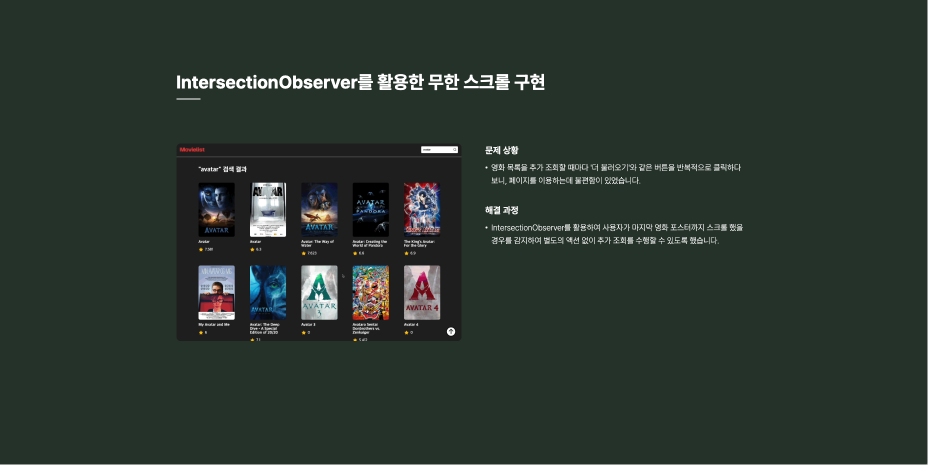
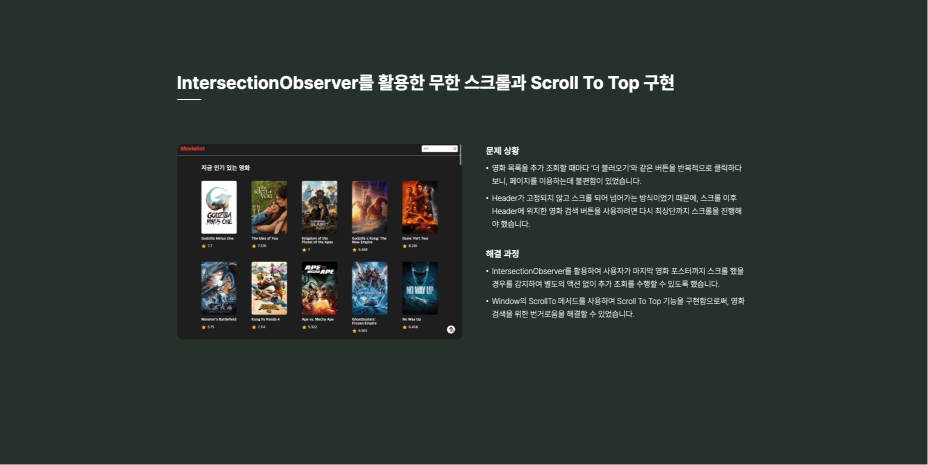
docs: 포트폴리오 관련 내용 추가 및 이미지 보완

Changed region(s): [[0.1875, 0.3011, 0.8125, 0.7226], [0.1875, 0.1505, 0.75, 0.2409]]

diff --git a/src/constants/details.tsx b/src/constants/details.tsx
@@ -55,6 +55,11 @@ import PNGNavMl8 from '../../public/assets/navigations/ml-8.png';
 import PNGNavPt1 from '../../public/assets/navigations/pt-1.png';
 import PNGNavPt2 from '../../public/assets/navigations/pt-2.png';
 import PNGNavPt3 from '../../public/assets/navigations/pt-3.png';
+import PNGNavPt4 from '../../public/assets/navigations/pt-4.png';
+import PNGNavPt5 from '../../public/assets/navigations/pt-5.png';
+import PNGNavPt6 from '../../public/assets/navigations/pt-6.png';
+import PNGNavPt7 from '../../public/assets/navigations/pt-7.png';
+import PNGNavPt8 from '../../public/assets/navigations/pt-8.png';
 
 import SVGFigmaLogo from '../../public/assets/icons/figma-logo.svg';
 import SVGGithubLogoWhite from '../../public/assets/icons/github-logo-white.svg';
@@ -91,6 +96,13 @@ import PNGMovieListScroll from '../../public/assets/projects/movie-list-scroll.g
 import PNGMovieListSkeleton from '../../public/assets/projects/movie-list-skeleton.png';
 
 import PNGPortfolioLanding from '../../public/assets/portfolio-landing.png';
+import GIFPortfolioVersion1 from '../../public/assets/projects/portfolio-version-1.gif';
+import GIFPortfolioVersion2 from '../../public/assets/projects/portfolio-version-2.gif';
+import GIFPortfolioHint1 from '../../public/assets/projects/portfolio-hint-1.gif';
+import GIFPortfolioHint2 from '../../public/assets/projects/portfolio-hint-2.gif';
+import GIFPortfolioHint3 from '../../public/assets/projects/portfolio-hint-3.gif';
+import GIFPortfolioNavigation from '../../public/assets/projects/portfolio-navigation.gif';
+import GIFPortfolioScrollRestore from '../../public/assets/projects/portfolio-scroll-restore.gif';
 
 export const DETAIL_LANDING = {
   'map-befine': PNGMapBeFine,
@@ -142,7 +154,16 @@ export const DETAIL_NAV = {
     PNGNavMl7,
     PNGNavMl8,
   ],
-  portfolio: [PNGNavPt1, PNGNavPt2, PNGNavPt3],
+  portfolio: [
+    PNGNavPt1,
+    PNGNavPt2,
+    PNGNavPt3,
+    PNGNavPt4,
+    PNGNavPt5,
+    PNGNavPt6,
+    PNGNavPt7,
+    PNGNavPt8,
+  ],
 };
 
 const DETAILS: Detail = {
@@ -781,19 +802,21 @@ const DETAILS: Detail = {
     {
       id: 5,
       template: 'activity',
-      heading: 'IntersectionObserver를 활용한 무한 스크롤 구현',
+      heading: 'IntersectionObserver를 활용한 무한 스크롤과 Scroll To Top 구현',
       image: PNGMovieListScroll,
       contents: [
         {
           heading: '문제 상황',
           descriptions: [
             "영화 목록을 추가 조회할 때마다 '더 불러오기'와 같은 버튼을 반복적으로 클릭하다 보니, 페이지를 이용하는데 불편함이 있었습니다.",
+            'Header가 고정되지 않고 스크롤 되어 넘어가는 방식이었기 때문에, 스크롤 이후 Header에 위치한 영화 검색 버튼을 사용하려면 다시 최상단까지 스크롤을 진행해야 했습니다.',
           ],
         },
         {
           heading: '해결 과정',
           descriptions: [
             'IntersectionObserver를 활용하여 사용자가 마지막 영화 포스터까지 스크롤 했을 경우를 감지하여 별도의 액션 없이 추가 조회를 수행할 수 있도록 했습니다.',
+            'Window의 ScrollTo 메서드를 사용하여 Scroll To Top 기능을 구현함으로써, 영화 검색을 위한 번거로움을 해결할 수 있었습니다.',
           ],
         },
       ],
@@ -822,19 +845,21 @@ const DETAILS: Detail = {
     {
       id: 7,
       template: 'activity',
-      heading: '반응형 웹 적용',
+      heading: '반응형 웹 적용 및 Bottom Sheet 동적 적용',
       image: PNGMovieListResponsive,
       contents: [
         {
           heading: '문제 상황',
           descriptions: [
             'PC 환경을 기준으로 미션을 구현했기에 모바일 및 태블릿 환경에서 웹 페이지를 확인하기에는 불편함이 있었습니다.',
+            '모바일 환경에서 Modal이 화면 중앙에 위치하게 될 경우 Modal을 조작하는게 불편했습니다.',
           ],
         },
         {
           heading: '해결 과정',
           descriptions: [
             'CSS Media Query를 활용하여 반응형 웹을 적용함으로써 PC, 태블릿, 모바일 각각의 환경에 적합한 사용성을 제공할 수 있도록 했습니다.',
+            'CSS Media Query를 활용하여 모바일 환경으로 인식되었을 때 Modal의 위치를 하단으로 고정하여 Bottom Sheet 형태로 전환될 수 있도록 했습니다.',
           ],
         },
       ],
@@ -853,7 +878,7 @@ const DETAILS: Detail = {
       id: 1,
       template: 'title',
       title: '포트폴리오',
-      description: 'Next.js를 활용하여 만든 포트폴리오 웹 페이지',
+      description: 'Next.js를 활용하여 만든 웹 포트폴리오',
       links: [
         {
           name: 'Github',
@@ -865,9 +890,9 @@ const DETAILS: Detail = {
     {
       id: 2,
       template: 'introduction',
-      heading: '프로젝트 소개',
+      heading: '포트폴리오 소개',
       intro:
-        'Next.js를 사용하여 SSG 방식으로 배포한 웹 포트폴리오입니다. Swiper JS를 활용하여 PPT 형식의 포트폴리오를 구현했습니다. 추후 상수로 관리하고 있는 데이터를 DB에 옮기고 use sever 방식을 활용해볼 예정입니다.',
+        'Next.js 14 버전을 사용하여 SSG 방식으로 배포한 웹 포트폴리오입니다. 기존 평범한 웹 형식의 포트폴리오에서 Swiper JS를 활용하여 PPT 형식의 포트폴리오를 구현했습니다. 내용은 지속적으로 업데이트 되며, 추후 상수로 관리하고 있는 데이터를 DB에 옮기고 use sever 방식을 활용해볼 예정입니다.',
       date: '24.05 - 현재',
       member: 'FE: 1명',
       techs: [
@@ -879,6 +904,94 @@ const DETAILS: Detail = {
     },
     {
       id: 3,
+      template: 'separator',
+      type: 'separate',
+      heading: '포트폴리오 특징',
+    },
+    {
+      id: 4,
+      template: 'activity-images',
+      heading: '평범한 웹 형식에서 PPT 컨셉의 포트폴리오로 재구성',
+      images: [GIFPortfolioVersion1, GIFPortfolioVersion2],
+      contents: [
+        {
+          heading: '1.0.0 버전의 포트폴리오',
+          descriptions: [
+            '기존의 포트폴리오는 평범한 웹 형식의 포트폴리오였습니다. 포트폴리오로서 특색을 느낄 수 없었고, 투박한 레이아웃 형식 때문에 텍스트의 배치가 가로로 넓게 분산되어 가독성이 떨어졌습니다.',
+          ],
+        },
+        {
+          heading: '2.0.0 버전의 포트폴리오',
+          descriptions: [
+            '앞으로 프로젝트를 꾸준히 진행할 계획이며, 활동한 내용을 지속적으로 기록할 예정입니다. 포트폴리오의 특색을 살리고 발표에 사용될 경우까지 고려하여 PPT 형식의 포트폴리오로 업데이트 했습니다.',
+            '템플릿 단위로 레이아웃을 구현하여 1.0.0 버전 대비 가독성을 개선하고, Next.js의 동적 라우팅 방식을 활용하여 템플릿 재사용성을 높일 수 있었습니다.',
+            'Full Page Scroll 방식을 활용하여 보다 생동감 있고, PPT 미리보기 네비게이션, 힌트 기능 등 편의성 기능들을 추가해 포트폴리오 확인을 편리하게 진행할 수 있도록 했습니다.',
+          ],
+        },
+      ],
+    },
+    {
+      id: 5,
+      template: 'activity',
+      heading: '프로젝트 페이지 미리보기 네비게이션 구현',
+      image: GIFPortfolioNavigation,
+      contents: [
+        {
+          heading: '문제 상황',
+          descriptions: [
+            'PPT 형식의 프로젝트 페이지는 Full Pagination을 위해 사용자의 스크롤을 제어하기 때문에 페이지가 많아질수록 스크롤 시간이 비례하여 증가했습니다. 주변 지인들의 피드백을 받아본 결과 원하는 페이지로의 이동까지 시간이 오래 걸려 답답한 느낌을 든다는 의견을 받았습니다.',
+          ],
+        },
+        {
+          heading: '해결 과정',
+          descriptions: [
+            'Thumb Swiper 기능을 활용하여 프로젝트 페이지 구조를 볼 수 있고 해당 페이지로 이동할 수 있는 네비게이션 기능을 구현해 사용자가 원하는 페이지를 보다 빠르고 간편하게 이동할 수 있도록 했습니다.',
+          ],
+        },
+      ],
+    },
+    {
+      id: 6,
+      template: 'activity-images',
+      heading: '가려진 요소를 알려주는 힌트 기능 구현',
+      images: [GIFPortfolioHint1, GIFPortfolioHint2, GIFPortfolioHint3],
+      contents: [
+        {
+          heading: '문제 상황',
+          descriptions: [
+            '스와이프 영역 및 프로젝트 페이지 네비게이션의 경우 사용자가 액션을 취하기 전까지는 화면에서 보이지 않는 요소가 존재했습니다. 지인의 사용을 지켜본 결과 가려진 요소에 대해서 인지하지 못하고 넘어가는 경우가 자주 발생했습니다.',
+          ],
+        },
+        {
+          heading: '해결 과정',
+          descriptions: [
+            '페이지마다 가려진 요소의 유무를 파악하여 최초 접속에 한에서 가려진 요소의 일부를 화면에 잠시 노출시키는 힌트 기능을 구현했습니다. 이를 통해 사용자가 가려진 요소를 인지하는데 도움이 되도록 했습니다.',
+          ],
+        },
+      ],
+    },
+    {
+      id: 7,
+      template: 'activity',
+      heading: '메인 페이지로 재진입 시 스크롤 복원 기능 구현',
+      image: GIFPortfolioScrollRestore,
+      contents: [
+        {
+          heading: '문제 상황',
+          descriptions: [
+            '프로젝트 페이지에서 뒤로가기 또는 홈 버튼을 클릭해서 메인 페이지로 재진입 했을 때, 첫 번째 슬라이드로 이동되어 다른 프로젝트를 확인하는데 번거롭다는 피드백을 받았습니다.',
+          ],
+        },
+        {
+          heading: '해결 과정',
+          descriptions: [
+            '메인 페이지는 Swiper를 통해 Full Screen Scroll이 적용되어 있었기 때문에, Next.js에서 기본으로 제공하는 스크롤 복원 기능이 정상적으로 동작하지 않았습니다. 하나의 변수로 스크롤 복원 기능을 구현할 수 있어서 전역 상태는 다소 과하다고 판단해, Closure의 특성을 살려 컴포넌트 외부 변수와 React의 State를 결합해 스크롤 복원 기능을 구현했습니다.',
+          ],
+        },
+      ],
+    },
+    {
+      id: 8,
       template: 'separator',
       type: 'end',
       heading: '괜찮을지도',
